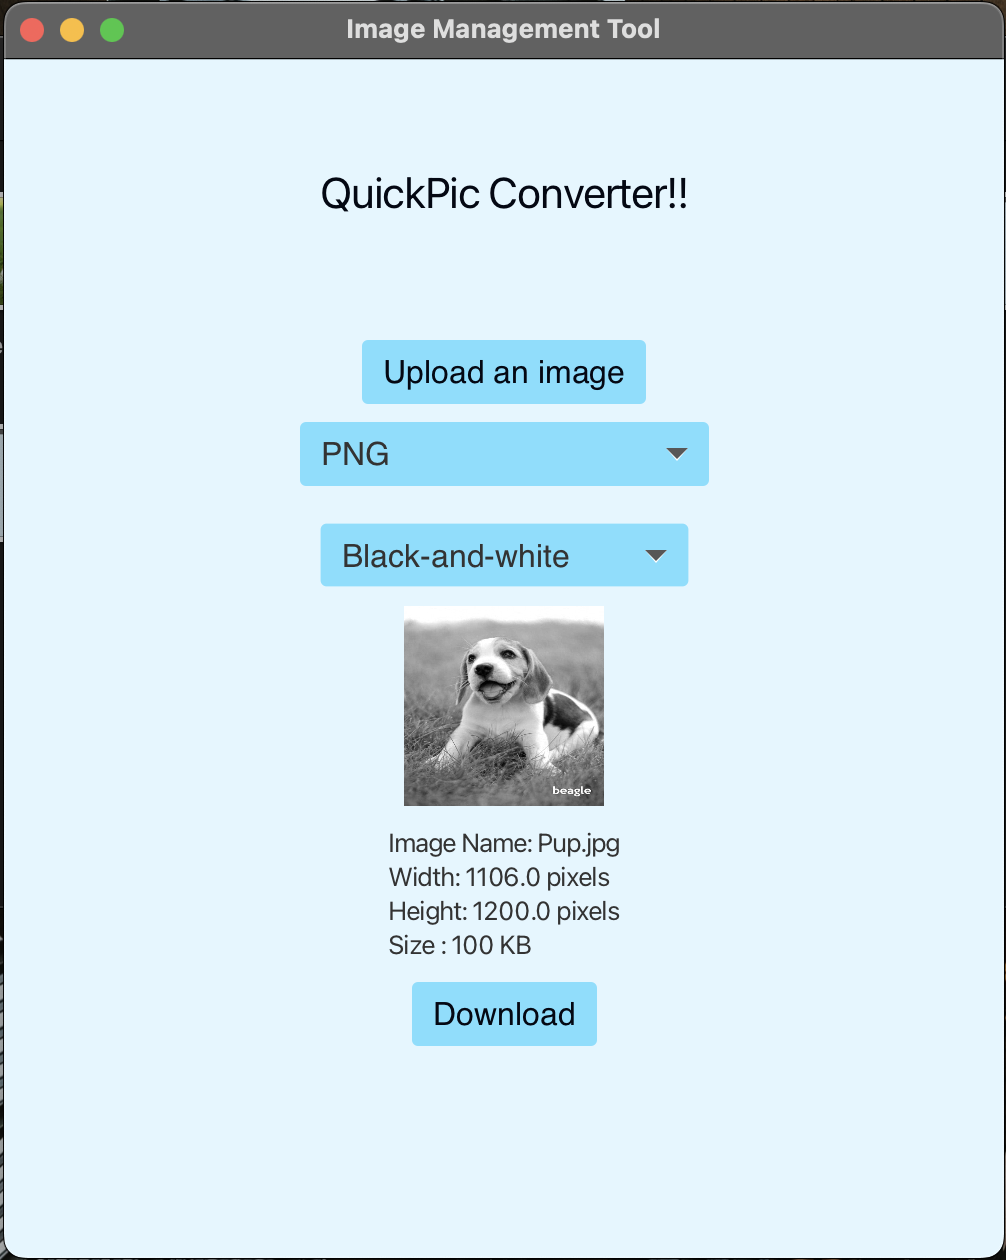
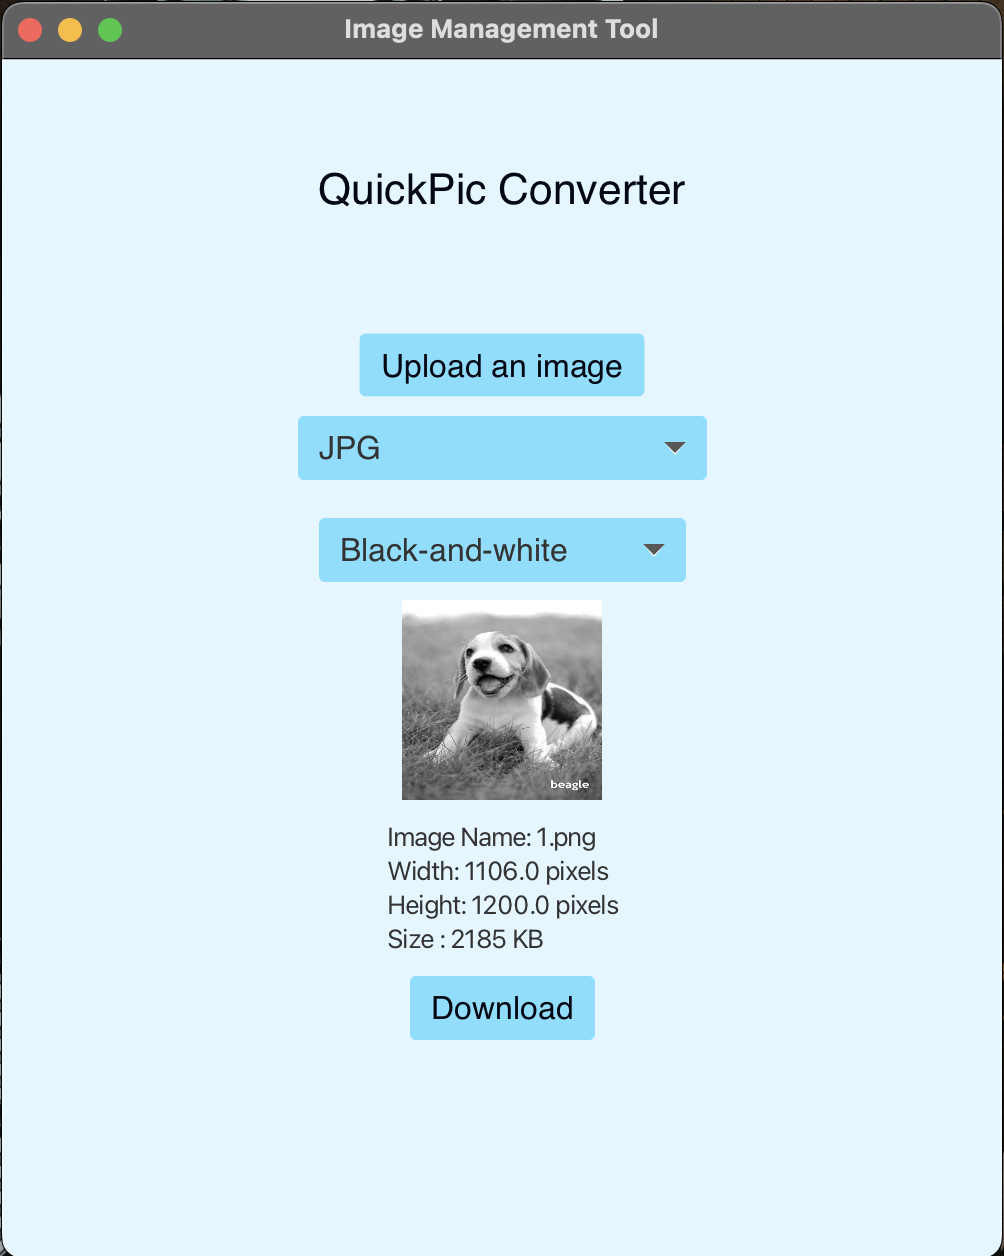
making changes to finalproject

diff --git a/FinalProject/src/main/java/com/example/finalprojectjava/ImageManagementTool.java b/FinalProject/src/main/java/com/example/finalprojectjava/ImageManagementTool.java
@@ -15,6 +15,7 @@ import javafx.scene.image.ImageView;
 import javafx.scene.layout.*;
 import javafx.stage.FileChooser;
 import javafx.stage.Stage;
+
 import java.io.File;
 
 
@@ -36,7 +37,7 @@ public class ImageManagementTool extends Application {
         stage.setTitle("Image Management Tool");
 
         // Set up the heading label
-        Label headingLabel1 = new Label("\n\nQuickPic Converter!!");
+        Label headingLabel1 = new Label("\n\nQuickPic Converter");
         headingLabel1.setStyle("-fx-text-fill: #040813; -fx-font-size: 16pt; -fx-font-family: Helvetica;");
         HBox headingBox = new HBox();
         headingBox.setAlignment(Pos.TOP_CENTER);
@@ -211,6 +212,7 @@ public class ImageManagementTool extends Application {
         stage.setScene(scene);
         stage.show();
     }
+
     // method to apply colour filter to the image based on various values of hue and saturation
     private void applyColorFilter(String colorFilter, ColorAdjust filterAdjust) {
         if (colorFilter != null) {

diff --git a/FinalProject/src/main/java/com/example/finalprojectjava/ImageConverter.java b/FinalProject/src/main/java/com/example/finalprojectjava/ImageConverter.java
@@ -12,4 +12,3 @@ The method convertAndSave takes an Image object (representing the input image) a
 public interface ImageConverter {
     void convertAndSave(Image inputImage, File outputImage) throws ImageConversionException;
 }
-
